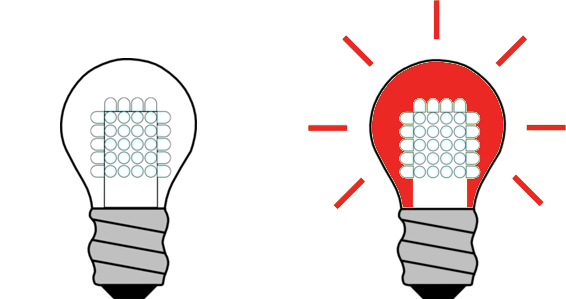
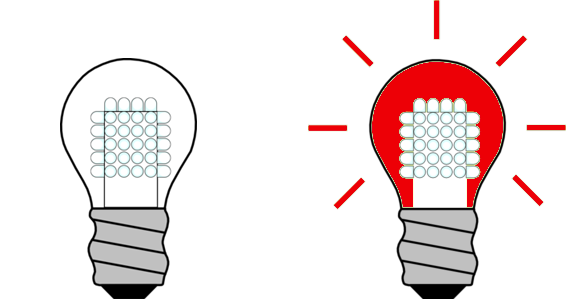
Further cleanup for IDE 1.0
Reduced storage size of  lights.png

diff --git a/README.md b/README.md
@@ -1,11 +1,10 @@
-Arduino TinyWebServer, release 20101208
+Arduino TinyWebServer, release 20120106
 
 A small web server for Arduino.
 
-Please read up on the latest changes here:
+Please read up on the TWS Pre Arduino IDE 1.0 history here:
 
 http://www.webweavertech.com/ovidiu/weblog/archives/000484.html
-
 
 http://www.webweavertech.com/ovidiu/weblog/archives/000477.html
 
@@ -21,14 +20,19 @@ sketch:
 
     #include <Ethernet.h>
     #include <EthernetDHCP.h>
-    #include <Flash.h>
-    #include <Fat16.h>
-    #include <Fat16util.h>
+    #include <Flash.h> *
+    #include <FD.h>
     #include <TinyWebServer.h>
 
 EthernetDHCP is optional, but it makes acquiring an IP address a lot
 easier if you have a DHCP server in your network.
 
+*(06/Jan/2012) Note that the external library 'Flash' 3.0 found here:
+http://arduiniana.org/libraries/flash/
+
+Needs to have one (#include <WProgram.h>)line removed, if it is to work with the Arduino IDE >1.0. 
+
+TinyWebServer
 TWS is implemented by the TinyWebServer class. The constructor method
 takes two arguments. The first one is a list of handlers, functions to
 be invoked when a particular URL is requested by an HTTP client. The
